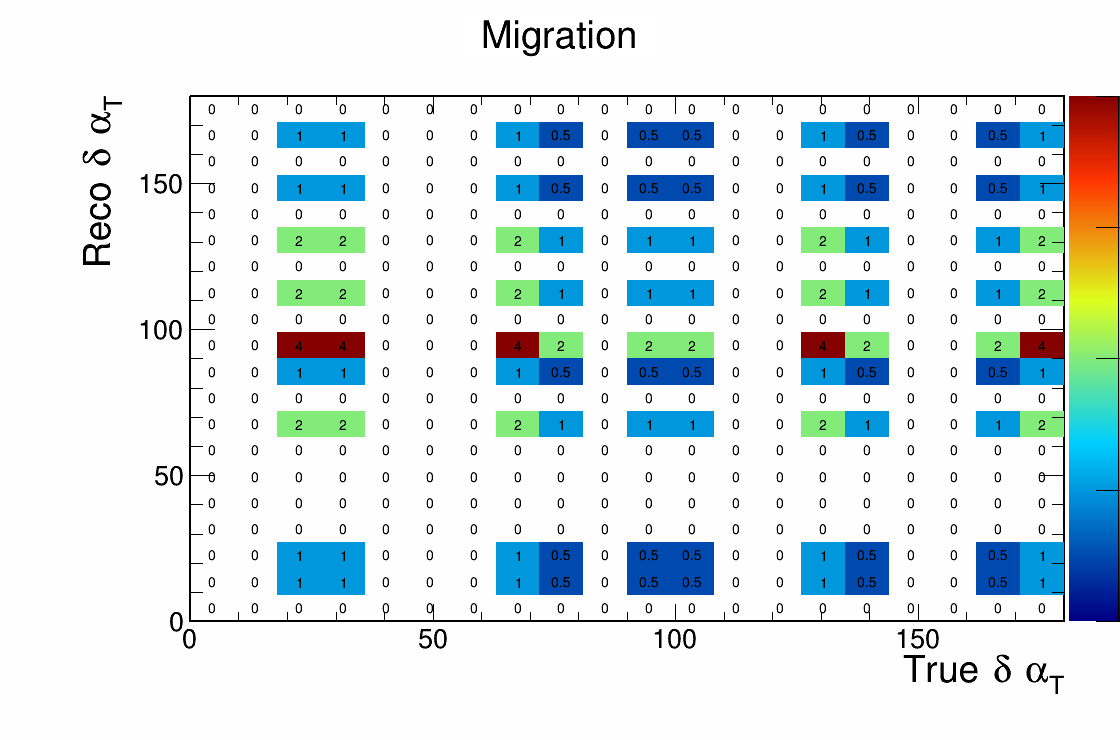
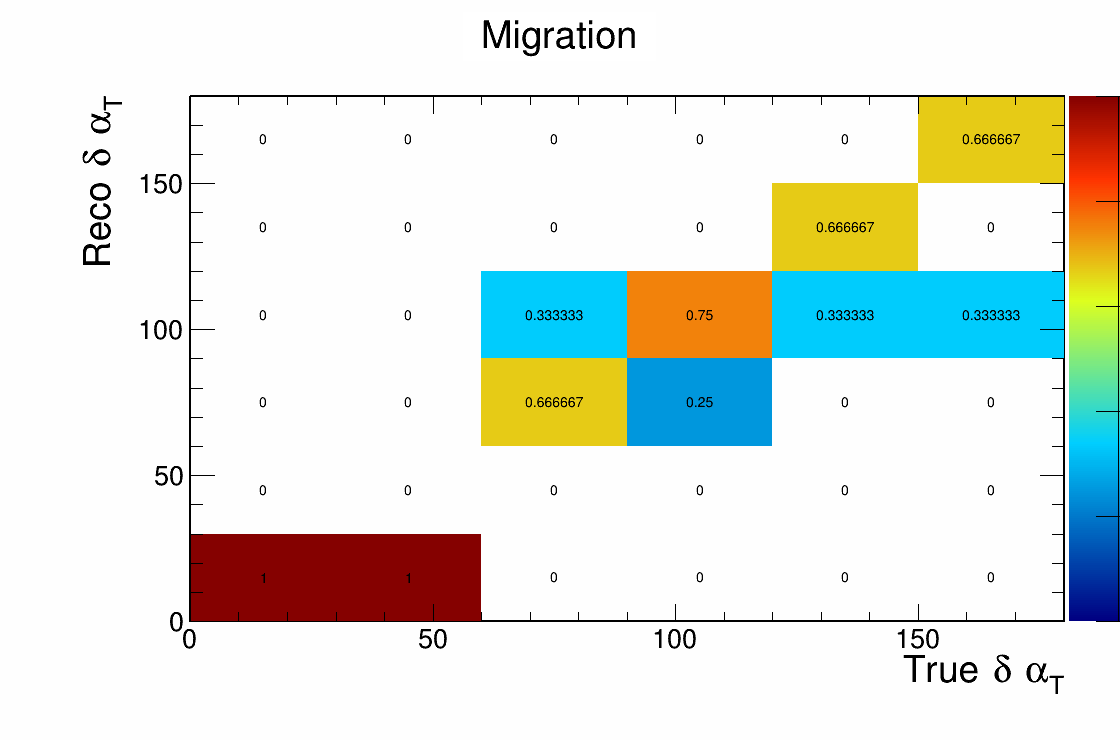
Migration matrix script working

diff --git a/CAFAnaAnalysis/Scripts/SelectionMigrationMatrix.C b/CAFAnaAnalysis/Scripts/SelectionMigrationMatrix.C
@@ -3,6 +3,7 @@
 #include "sbnana/CAFAna/Core/Spectrum.h"
 #include "sbnana/CAFAna/Core/Binning.h"
 #include "sbnana/CAFAna/Core/Var.h"
+#include "sbnana/CAFAna/Core/Cut.h"
 
 // ROOT includes.
 #include "TCanvas.h"
@@ -37,14 +38,6 @@ void SelectionMigrationMatrix() {
     // The SpectrumLoader object handles the loading of CAFs and the creation of Spectrum.
     SpectrumLoader NuLoader(TargetFile);
 
-    // Create the binning schemes for the Vars we wish to plot.
-    const Binning bPrimaryEnergy = Binning::Simple(1, 0, 3.0); // one bin
-    const Binning bAngleBins = Binning::Simple(20, 0.0, 1.0);
-    const Binning bDeltaAlphaBins = Binning::Simple(20, 0.0, 180.0);
-    const Binning bTransverseMomentumBins = Binning::Simple(20, 0.0, 1.0);
-    const Binning bMuonMomentumBins = Binning::Simple(20, 0.1, 1.2);
-    const Binning bProtonMomentumBins = Binning::Simple(20, 0.3, 1.0);
-
     // We now create migration matrices for several variables, where these represent the ratio
     // between the events with a reconstructed value in bin i over the total true signal events
     // with true value in bin i
@@ -65,22 +58,41 @@ void SelectionMigrationMatrix() {
     PlotNames.push_back("DeltaAlphaT"); VarLabels.push_back("#delta #alpha_{T}");
 
     // Construct spectra
-    std::vector<std::tuple<std::unique_ptr<Spectrum>, std::unique_ptr<Spectrum>>> Spectra;
+    std::vector<std::tuple<
+        std::unique_ptr<Spectrum>, 
+        std::vector<std::unique_ptr<Spectrum>>
+    >> Spectra;
     for (std::size_t i = 0; i < Vars.size(); i++) {
-        auto RecoValues = std::make_unique<Spectrum>(VarLabels.at(i), VarBins.at(i), NuLoader, Vars.at(i).first, kNoSpillCut, kRecoIsTrueReco);
+        const std::vector<double>& BinEdges = VarBins.at(i).Edges();
+        std::vector<std::unique_ptr<Spectrum>> InnerSpectra;
+        Var kCurrentVar = Vars.at(i).second;
+
+        for (int j = 0; j < VarBins.at(i).NBins(); j++) {
+            double BinMin = BinEdges.at(j);
+            double BinMax = (j == VarBins.at(i).NBins() - 1) ?  VarBins.at(i).Max() : BinEdges.at(j + 1);
+
+            const Cut TempCut([=](const caf::SRSliceProxy* slc) {
+                return (
+                    kRecoIsTrueReco(slc) && 
+                    kCurrentVar(slc) >= BinMin &&
+                    kCurrentVar(slc) < BinMax
+                );
+            });
+            auto RecoBinValues = std::make_unique<Spectrum>(VarLabels.at(i), VarBins.at(i), NuLoader, Vars.at(i).first, kNoSpillCut, TempCut);
+            InnerSpectra.push_back(std::move(RecoBinValues));
+        }
         auto TruthValues = std::make_unique<Spectrum>(VarLabels.at(i), VarBins.at(i), NuLoader, Vars.at(i).second, kNoSpillCut, kRecoIsTrueReco);
-        Spectra.push_back({std::move(RecoValues), std::move(TruthValues)});
+        Spectra.push_back({std::move(TruthValues), std::move(InnerSpectra)});
     }
 
     NuLoader.Go();
 
     // Loop over variables
     for (std::size_t i = 0; i < Vars.size(); i++) {
-        auto& [RecoValues, TruthValues] = Spectra.at(i);
-
+        double RecoTotalEvents = 0.;
+        auto& [TruthValues, InnerSpectra] = Spectra.at(i);
 
         TCanvas* PlotCanvas = new TCanvas("Selection","Selection",205,34,1124,768);
-        TH1* RecoValuesHist = RecoValues->ToTH1(TargetPOT);
         TH1* TruthValuesHist = TruthValues->ToTH1(TargetPOT);
         TH2* MigrationMatrix = new TH2F(
             "Migration",
@@ -93,15 +105,20 @@ void SelectionMigrationMatrix() {
             VarBins.at(i).Max()
         );
 
+        std::vector<TH1*> RecoValuesHistos;
+        for (int j = 0; j < VarBins.at(i).NBins(); j++) {
+            RecoValuesHistos.push_back(InnerSpectra.at(j)->ToTH1(TargetPOT));
+        }
+
         for (int x = 1; x < VarBins.at(i).NBins() + 1; x++) {
             double TruthCounts = TruthValuesHist->GetBinContent(x);
+            TH1* RecoValuesHist = RecoValuesHistos.at(x - 1); // -1 because ROOT lables bins starting from 1
             for (int y = 1; y < VarBins.at(i).NBins() + 1; y++) {
                 double RecoCounts = RecoValuesHist->GetBinContent(y);
                 double Ratio = RecoCounts / TruthCounts;
 
-                std::cout << RecoValuesHist->GetXaxis()->GetBinLowEdge(y) << "  " << RecoCounts << std::endl;
-                std::cout << TruthValuesHist->GetXaxis()->GetBinLowEdge(x) << "  " << TruthCounts << std::endl;
-                std::cout << std::endl;
+                // std::cout << RecoValuesHist->GetXaxis()->GetBinLowEdge(y) << "  " << RecoCounts << std::endl;
+                // std::cout << TruthValuesHist->GetXaxis()->GetBinLowEdge(x) << "  " << TruthCounts << std::endl;
 
                 if (TruthCounts == 0.) Ratio = 0.;
                 MigrationMatrix->Fill(
@@ -110,6 +127,7 @@ void SelectionMigrationMatrix() {
                     Ratio
                 );
             }
+            RecoTotalEvents += RecoValuesHist->Integral();
         }
 
         MigrationMatrix->GetXaxis()->SetTitle(("True " + VarLabels.at(i)).c_str());
@@ -123,39 +141,13 @@ void SelectionMigrationMatrix() {
         PlotCanvas->cd();
         MigrationMatrix->Draw("colz text");
 
+        // Sanity check, these should be the same
+        std::cout << "Total true var events: " << TruthValuesHist->Integral() << std::endl;
+        std::cout << "Total reco var events: " << RecoTotalEvents << std::endl;
+
         // Save as png
         PlotCanvas->SaveAs(dir+"/Figs/CAFAna/Migration/Migration"+PlotNames[i]+".png");
-
-        PlotCanvas->cd();
-
-        TLegend* leg = new TLegend(0.2,0.73,0.45,0.83);
-        leg->SetBorderSize(0);
-        leg->SetNColumns(3);
-        leg->SetTextSize(TextSize*0.8);
-        leg->SetTextFont(FontStyle);
-
-        TLegendEntry* legReco = leg->AddEntry(RecoValuesHist,"Reco","l");
-        RecoValuesHist->SetLineColor(kBlue+2);
-        RecoValuesHist->SetLineWidth(4);
-
-        TLegendEntry* legTrue = leg->AddEntry(TruthValuesHist,"True","l");
-        TruthValuesHist->SetLineColor(kRed+1);
-        TruthValuesHist->SetLineWidth(4);
-
-        double TrueMax = TruthValuesHist->GetMaximum();
-        double RecoMax = RecoValuesHist->GetMaximum();
-        double YAxisRange = 1.15 * ((TrueMax < RecoMax) ? RecoMax:  TrueMax);
-
-        TruthValuesHist->GetYaxis()->SetRangeUser(0., YAxisRange);
-        RecoValuesHist->GetYaxis()->SetRangeUser(0., YAxisRange);
-
-        TruthValuesHist->Draw("hist");
-        RecoValuesHist->Draw("hist same");
-        leg->Draw();
-
-        // Save as png
-        PlotCanvas->SaveAs(dir+"/Figs/CAFAna/Migration/TrueAndReco"+PlotNames[i]+".png");
-
+        
         // Save to root file
         SaveFile->WriteObject(MigrationMatrix, PlotNames[i]+"_migration");
 

diff --git a/CAFAnaAnalysis/Scripts/Definitions.h b/CAFAnaAnalysis/Scripts/Definitions.h
@@ -52,7 +52,7 @@ namespace ana
     // Create the binning schemes for the Vars we wish to plot.
     const Binning bPrimaryEnergy = Binning::Simple(1, 0, 3.0); // one bin
     const Binning bAngleBins = Binning::Simple(20, 0.0, 1.0);
-    const Binning bDeltaAlphaBins = Binning::Simple(8, 0.0, 180.0);
+    const Binning bDeltaAlphaBins = Binning::Simple(6, 0.0, 180.0);
     const Binning bTransverseMomentumBins = Binning::Simple(20, 0.0, 1.0);
     const Binning bMuonMomentumBins = Binning::Simple(20, 0.1, 1.2);
     const Binning bProtonMomentumBins = Binning::Simple(20, 0.3, 1.0);
